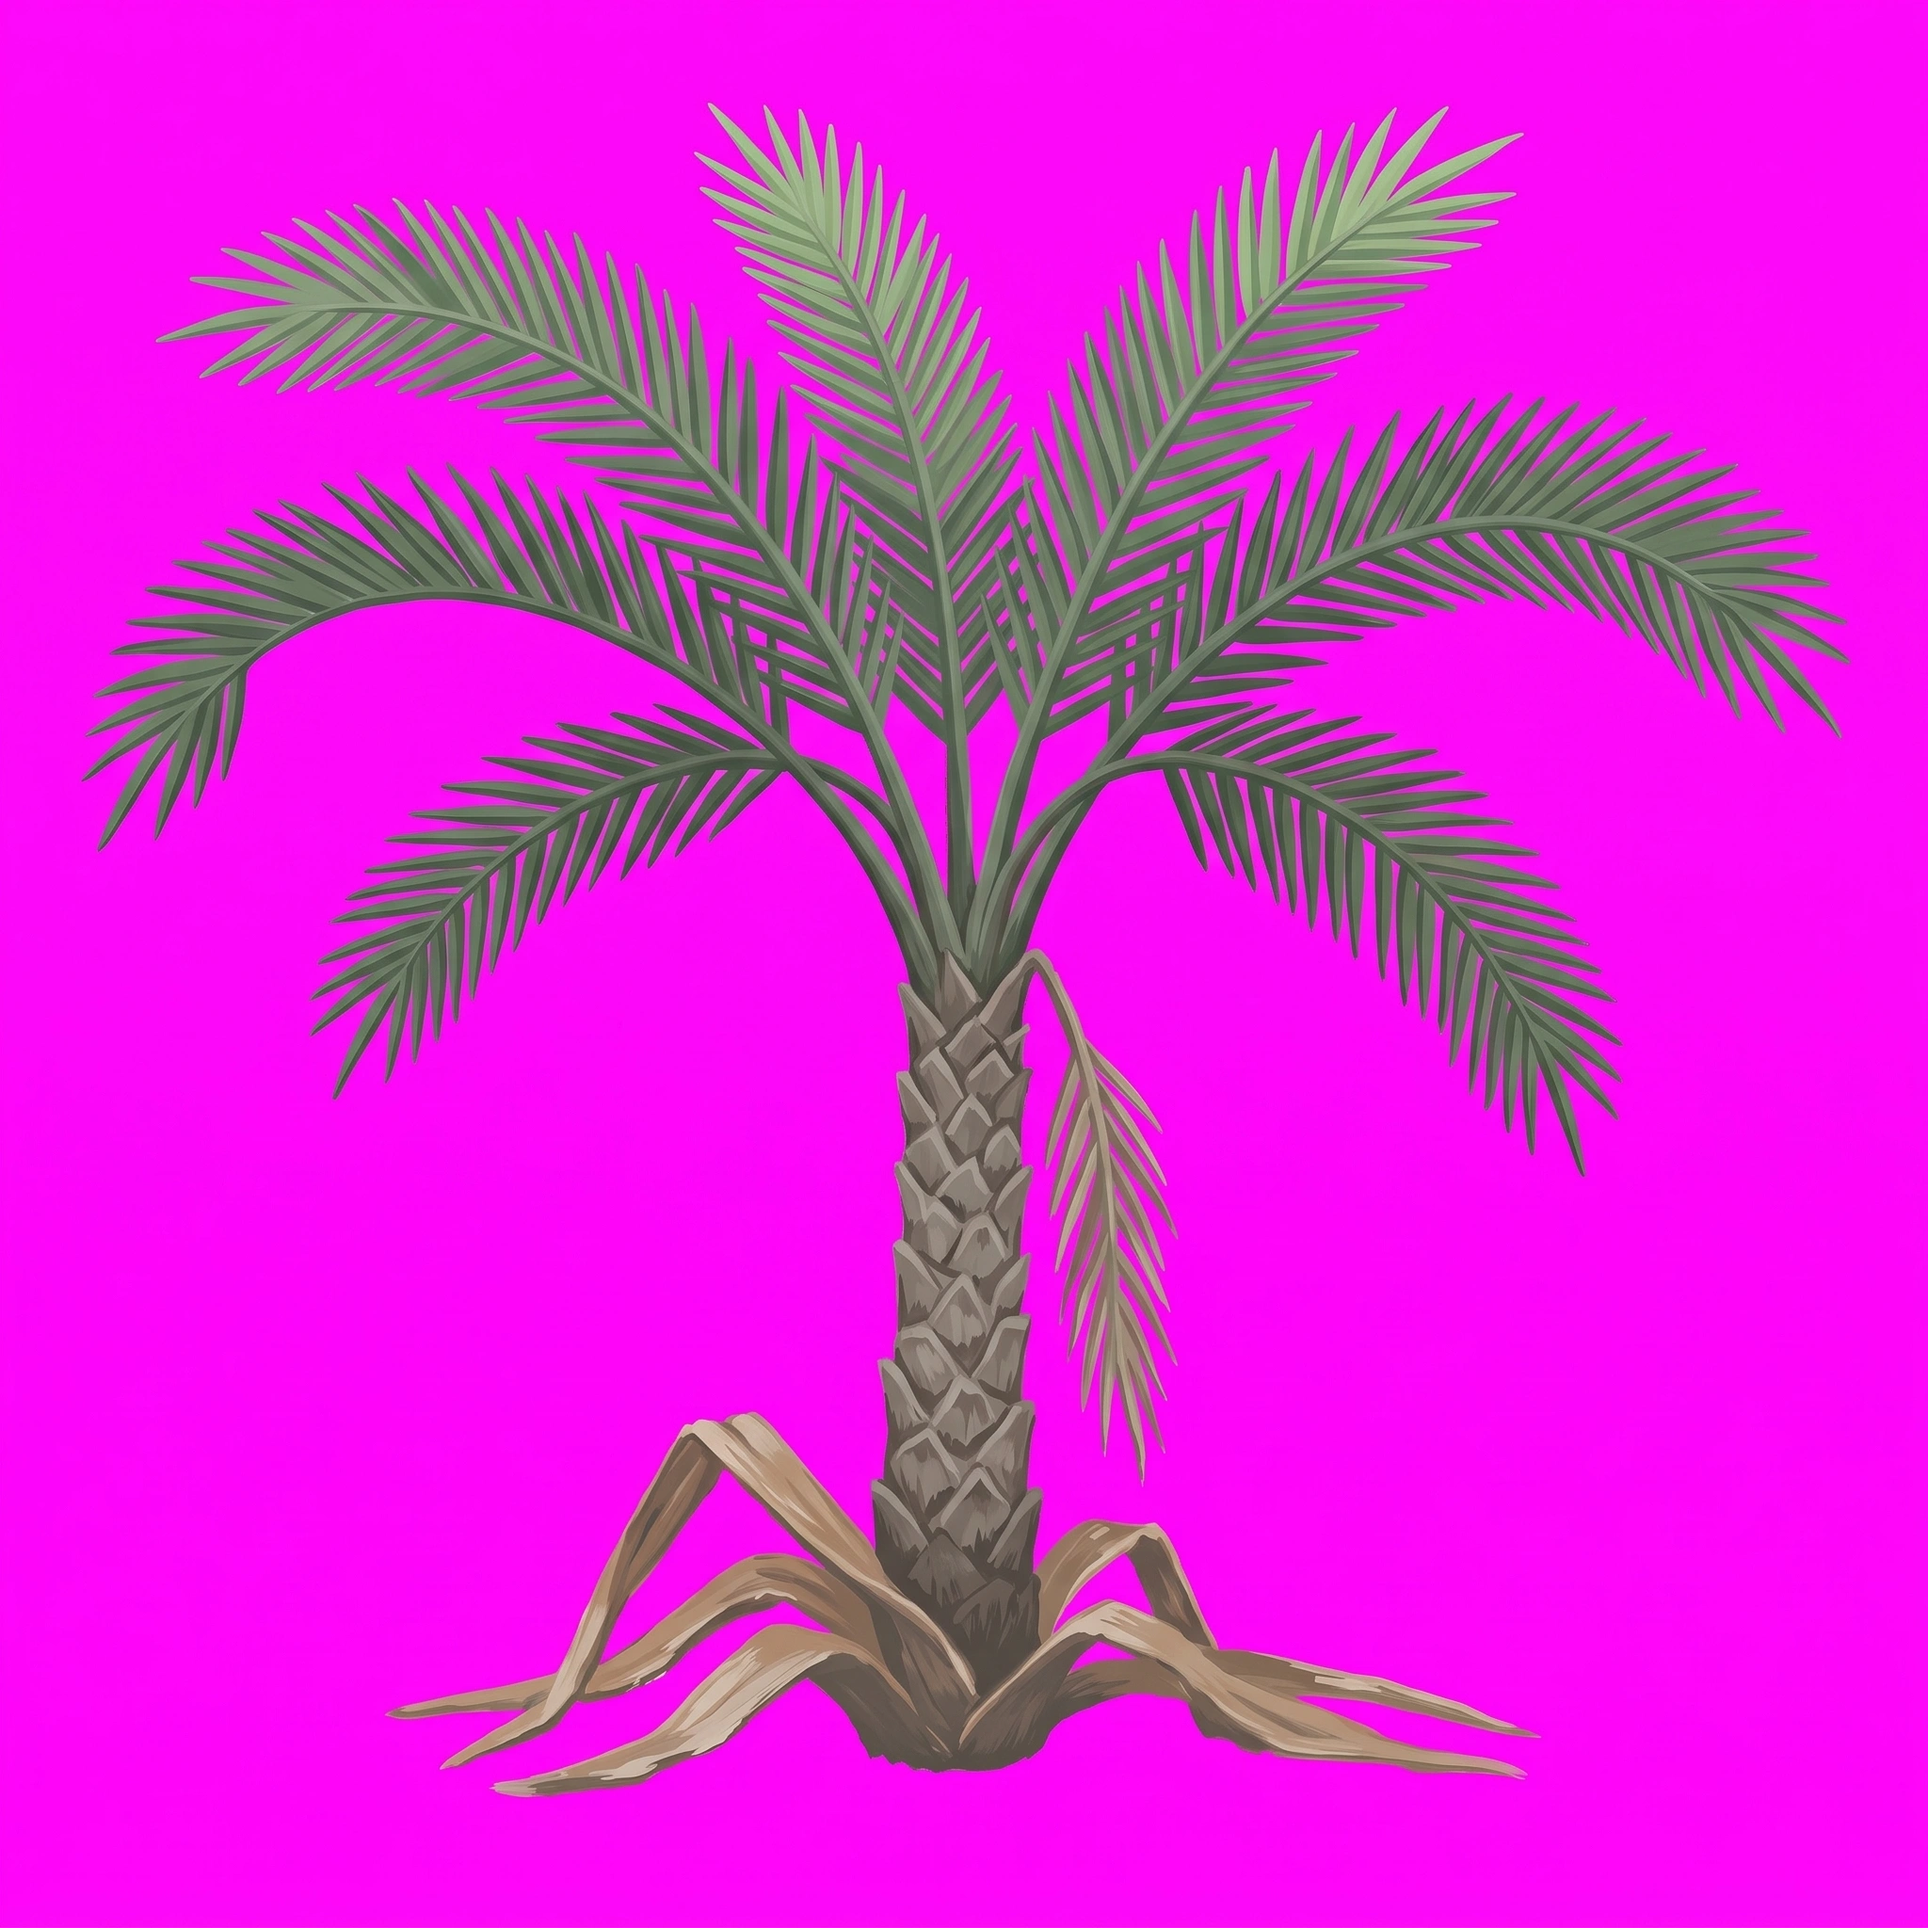
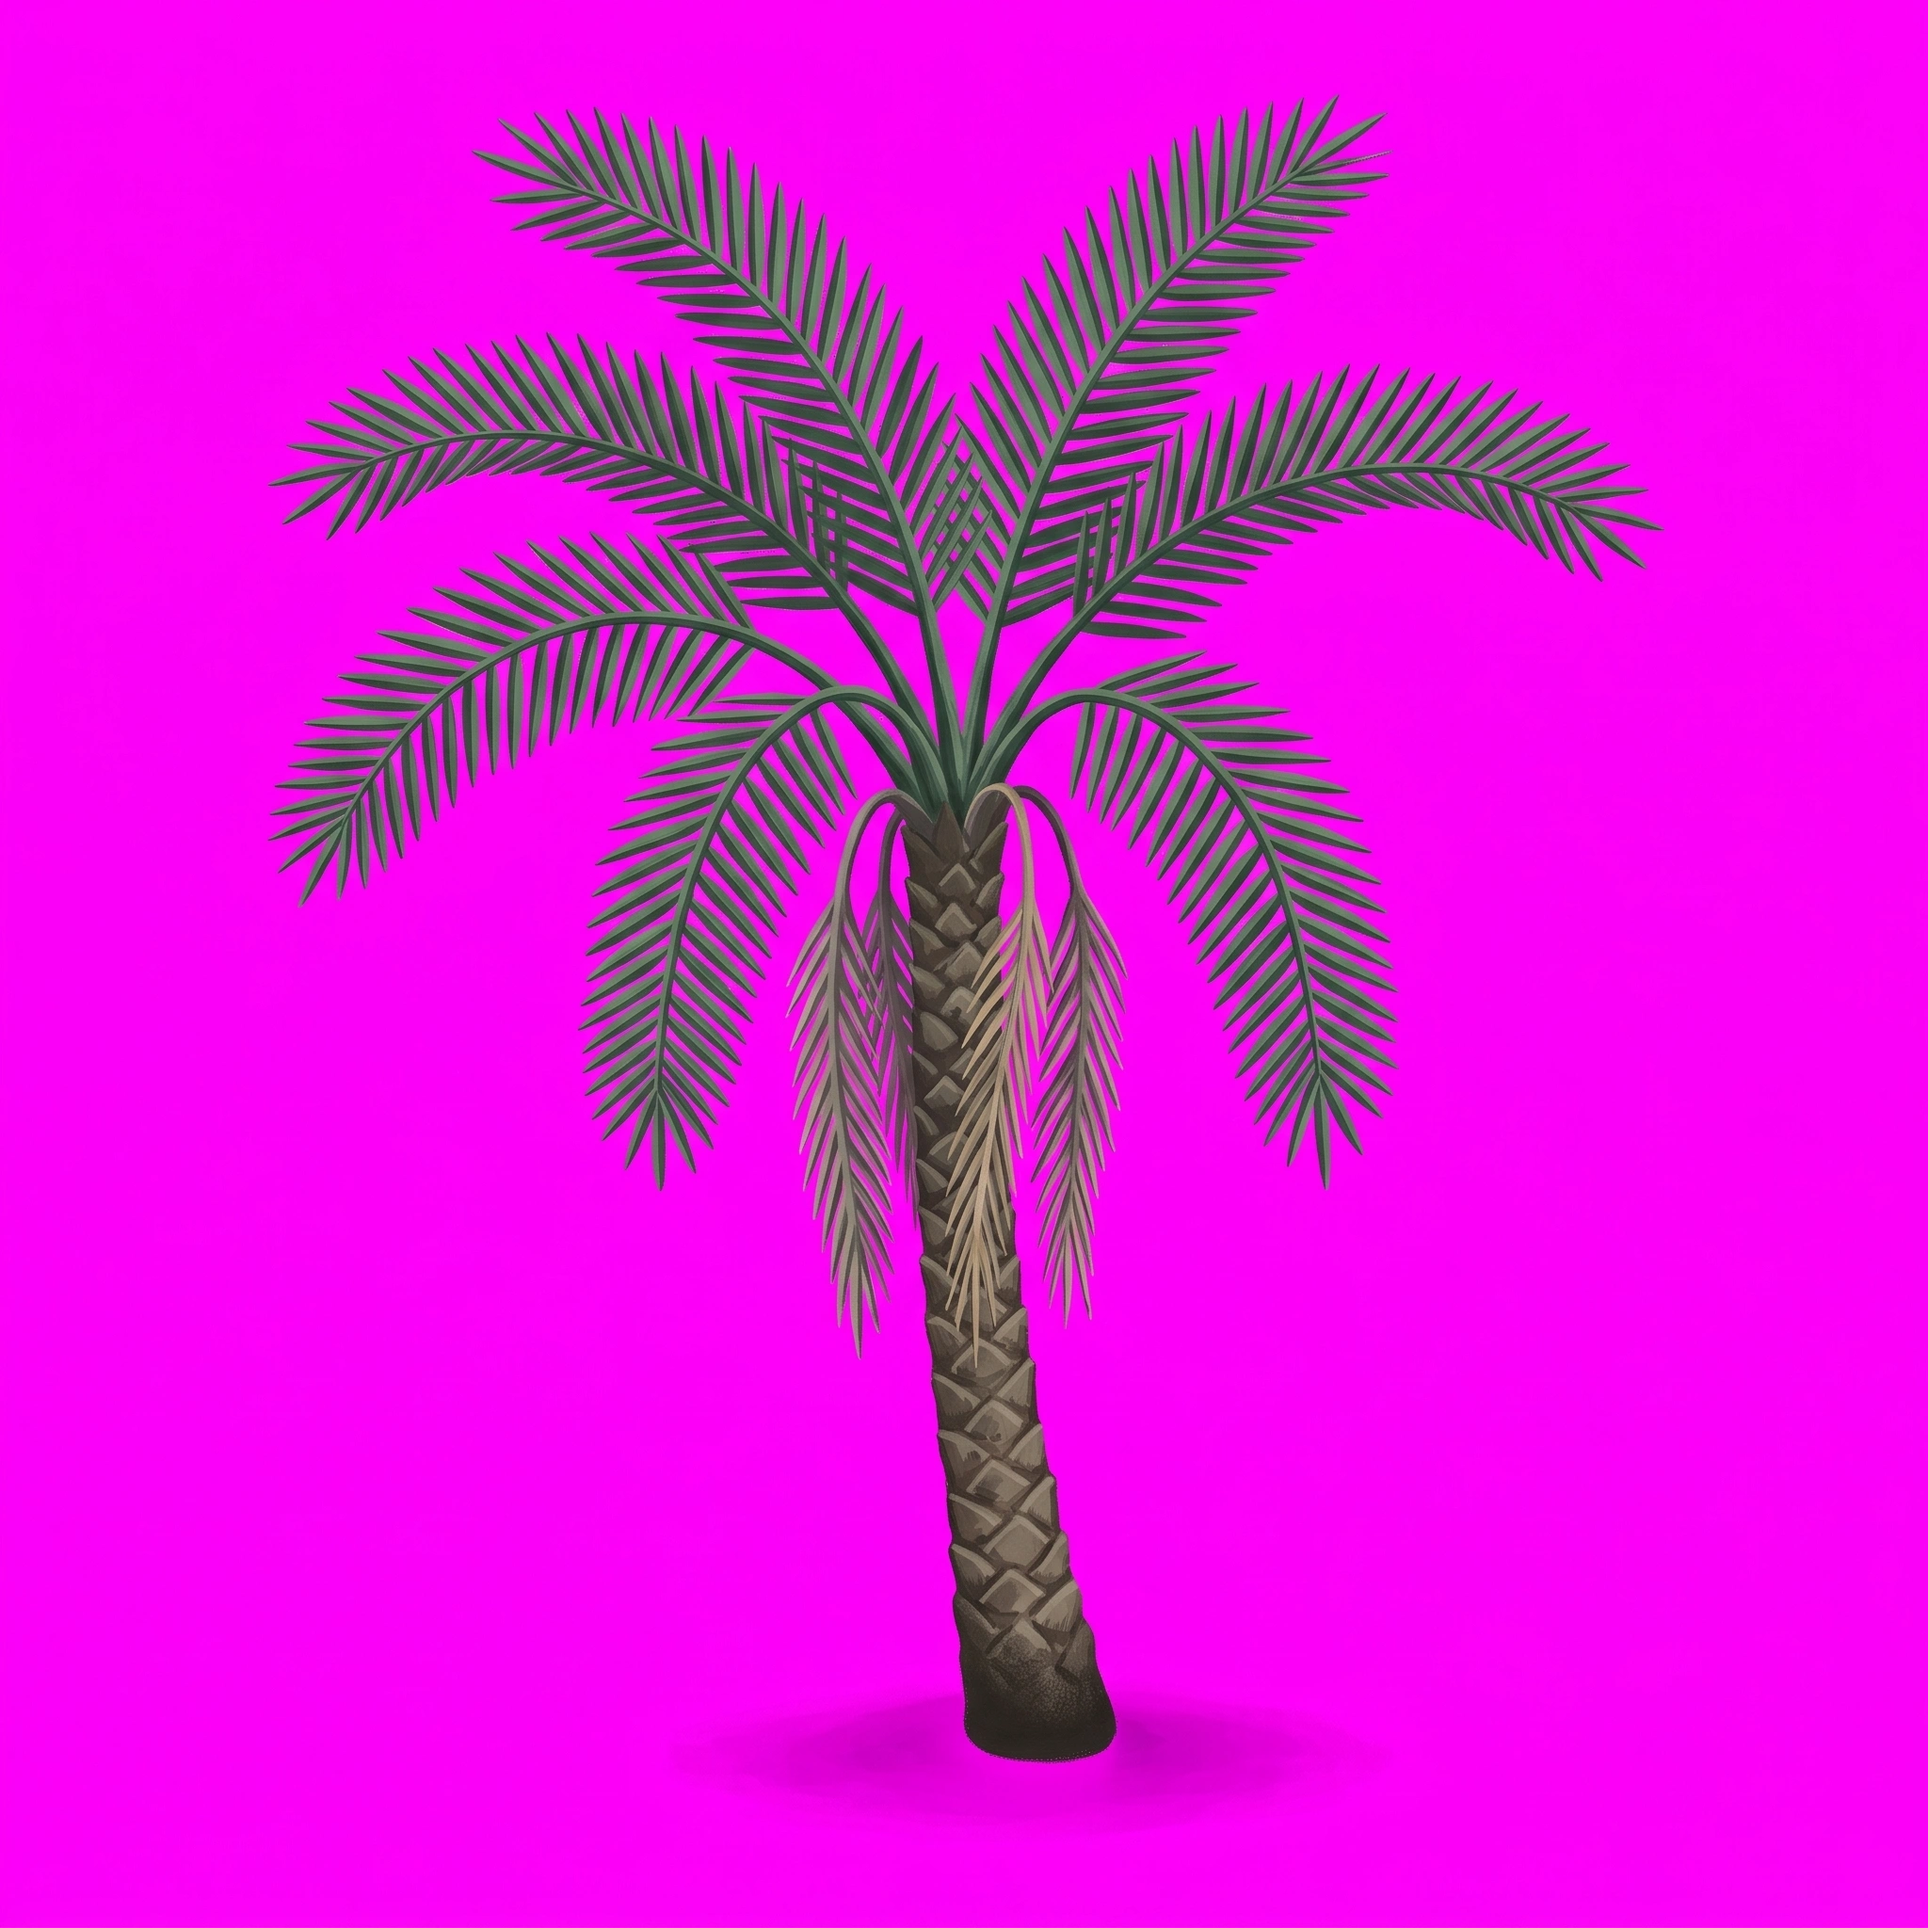
The palm keeps its own ground clear and stands lit from the front
Claude-Session: https://claude.ai/code/session_012U7n1Mo4vNyKrakuZtePmo

diff --git a/docs/instructions/repaint-queue.md b/docs/instructions/repaint-queue.md
@@ -2586,73 +2586,6 @@ green. A tile that arrives prettier than the three it joins is the failure to lo
 until the return is measured against the floor it lies on with `yarn tile-stats` — same rule as every
 other block in this file.
 
-### `default/overgrown-palm` — a young date palm in a broken chamber
-
-**Attach:**
-
-1. `~/tile-previews/overgrown-plant-reference.png` — the plant it stands beside
-
-```
-A single plant, painted in flat matte gouache, no background, on pure magenta #FF00FF. Square, one unit by one, exactly as the reference. Do not re-compose it into a portrait.
-
-The object: a YOUNG DATE PALM that has seeded itself in a tomb chamber and grown up toward the hole in
-the roof. A single slender trunk, patterned with the diamond scars of old frond bases, leaning very
-slightly. Five or six arching fronds at the top, each one a long rib with stiff leaflets along both
-sides — draw the leaflets as a comb of short strokes, not as a feather. A few dead fronds hang down against the trunk under the green ones — DRY AND DUSTY, a grey-ochre going to
-straw, never orange or rust. They are the driest thing in the tile and must not become the brightest: the
-first roll came back with them a hot red-orange, which at tile size read as fruit.
-
-It STANDS ON THE FLOOR and is seen from the front, the way a piece of furniture in this tomb is seen. Its
-base is at the bottom edge of the frame and its crown at the top; nothing is cut off by either edge. It
-is a tile about the size of a jar rack, so the whole plant reads at a glance: fewer, larger fronds beat
-many small ones.
-
-Green that has grown in the dark: a deep dusty green, not a garden green, and the trunk a grey-brown.
-
-NOTHING LIES AT ITS FOOT. No fallen fronds, no litter, no debris on the ground — those are their own tile
-(`default/overgrown-fronds`), and painted here they feather into the magenta and key out as pink specks,
-which is what happened on the first roll.
-
-IT SITS ON THE GROUND, AND IT DARKENS WHERE IT TOUCHES. Pool a soft dark into the very bottom of the
-plant — the base of the trunk or crown, and the ground immediately around it — fading out within a
-fraction of the plant's own width. Every prop in this game bakes one of these into its bottom rows, and a
-tile without one lies on the paving like a sticker however well the map lights it.
-
-THIS IS CONTACT, NOT A CAST SHADOW. It does not fall to one side, it carries no direction, and it does
-not reach away across the floor — a thing resting on the ground is dark where it meets the ground,
-whichever way the light comes from — so it is true of this tile wherever the map happens to put it.
-
-**THE LIGHT COMES FROM THE FRONT AND SLIGHTLY ABOVE** — from where the viewer is standing, tilted down.
-Give it a lit side and a shadow side against that: the upper surfaces and the parts facing the viewer
-take the lightest greens; the undersides of the fronds, the far side of the trunk and anything tucked
-behind another part fall away into shadow, and the change between them is gradual rather than a hard
-edge.
-
-STRAIGHT ON, AND NOT FROM ONE SIDE. The source is square in front, so the tile has NO brighter flank —
-nothing is lighter on the left than on the right. That is deliberate and it is load-bearing: the renderer
-MIRRORS these sprites at random to keep a floor from repeating, and a plant lit from one side would have
-its lit flank on the wrong side of half the cells it lands in. Front light survives the mirror; side
-light does not.
-
-DIRECTIONAL, NOT GLOSSY. A matte leaf still has a lit side: no specular dot, no shine, no wet look, and
-no bright rim tracing the edge.
-
-KEEP IT ALL IN A NARROW VALUE RANGE. The lit side is lighter, not bright: nothing near white, nothing
-near black, and the lightest part and the darkest within about a third of the scale of each other. A
-plant painted with real contrast reads as cut out of another picture from the stone behind it.
-
-Draw it square on and FLAT. No perspective, no scene, no floor under it, no pot, no wall behind it.
-
-Matte gouache throughout: a surface with a lit side, never a polished one.
-```
-
-Then, once the return is in `~/Downloads`:
-
-```sh
-yarn import-tile art/masters/surfaces/overgrown-palm.webp --tier=default --name=overgrown-palm --slot=growth \
-  --filter=smooth --saturation=1.8 --brightness=0.88
-```
-
 ### `default/overgrown-ferns` — a clump of ferns on a chamber floor
 
 **Attach:**
